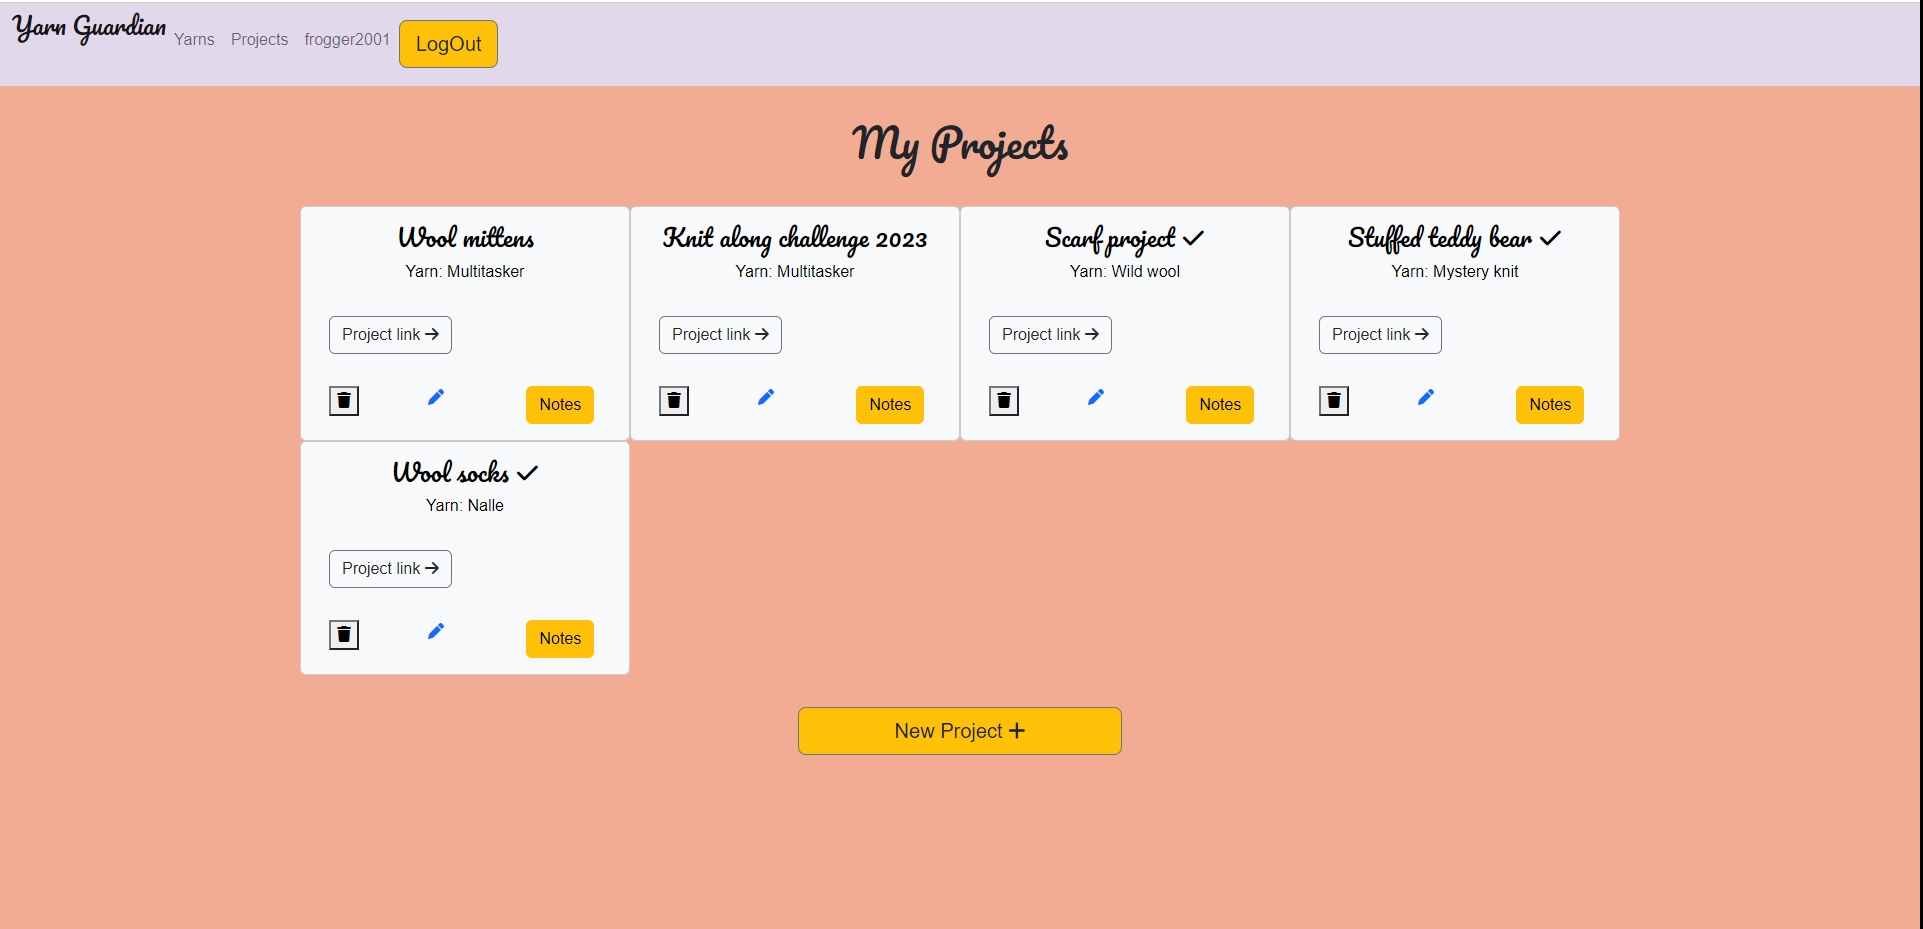
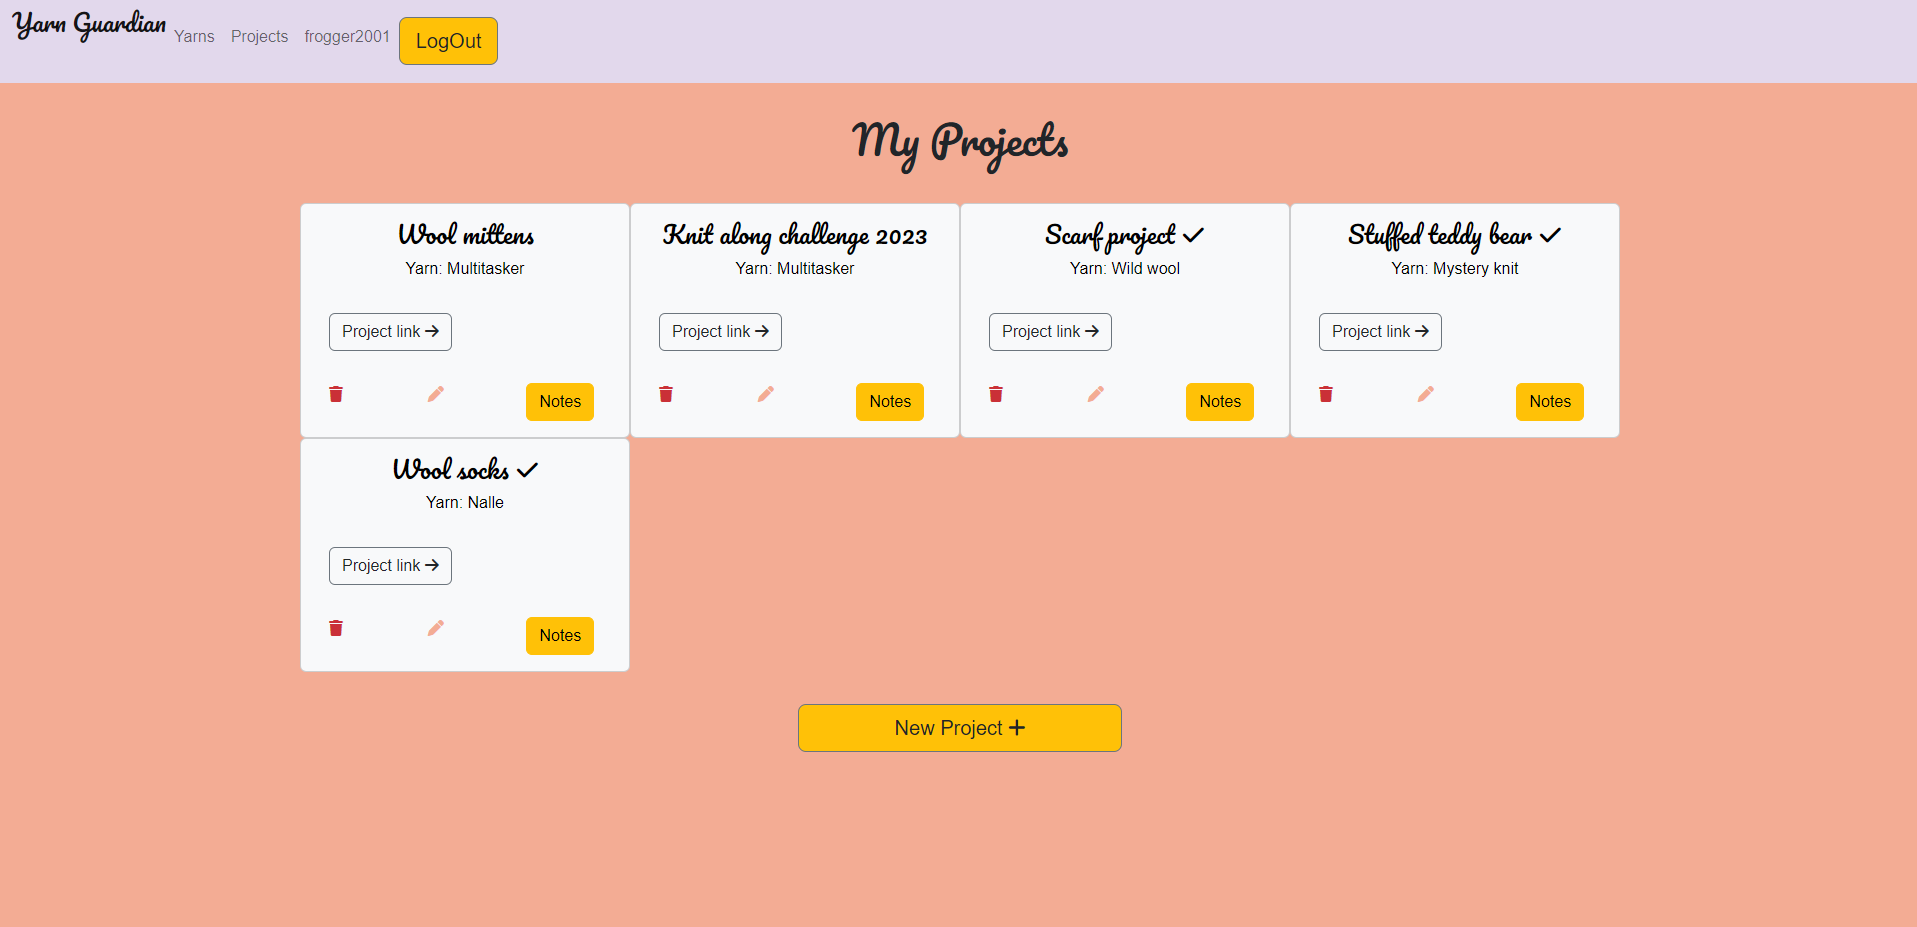
Fix final buttons

diff --git a/templates/stash/projects_board.html b/templates/stash/projects_board.html
@@ -41,21 +41,22 @@
                         <div class="row">
                             <div class="col-12 extra-fluff">
                                 <p class="card-text">
-                                    <button class="btn btn-light btn-outline-secondary">
-                                        <a class="text-decoration-none text-dark" href="{{ project.link }}" aria-label="Open page linked to your project" target="_blank">Project link <i class="fa-solid fa-arrow-right"></i></a>
-                                    </button>
+                                    <a class="text-decoration-none text-dark btn btn-light btn-outline-secondary" href="{{ project.link }}" aria-label="Open page linked to your project" target="_blank">Project link 
+                                        <i class="fa-solid fa-arrow-right">
+                                        </i>
+                                    </a>
                                 </p>
                             </div>
                         </div>
                         <div class="row">
                             <div class="col">
                                 <a href="/delete_project/{{ project.id }}">
-                                    <button> <i class="fa-solid fa-trash"></i></button>
+                                    <i class="fa-solid fa-trash trash-red"></i>
                                 </a>
                             </div>
                             <div class="col">
                                 <a href="/edit_project/{{ project.id }}">
-                                    <i class="fa-solid fa-pen"></i>
+                                    <i class="fa-solid fa-pen note-red"></i>
                                 </a>
                             </div>
                         

diff --git a/templates/stash/stash_board.html b/templates/stash/stash_board.html
@@ -54,19 +54,15 @@
                             </div>
                         
                             <div class="row">
-                                <div class="col">
-                                    <button class="btn">
-                                        <a href="/delete_yarn/{{ yarn.id }}">
-                                            <i class="fa-solid fa-trash trash-red"></i>
-                                        </a>
-                                    </button>
+                                <div class="col btn">
+                                    <a href="/delete_yarn/{{ yarn.id }}">
+                                        <i class="fa-solid fa-trash trash-red"></i>
+                                    </a>
                                 </div>
                                 <div class="col">
-                                    <button class="btn ">
-                                        <a href="/edit_yarn/{{ yarn.id }}">
-                                            <i class="fa-solid fa-pen note-red"></i>
-                                        </a>
-                                    </button>
+                                    <a class="btn" href="/edit_yarn/{{ yarn.id }}">
+                                        <i class="fa-solid fa-pen note-red"></i>
+                                    </a>
                                 </div>
                         
 <!-- Button trigger modal -->

diff --git a/README.md b/README.md
@@ -56,6 +56,8 @@ pip3 install django-crispy-forms
 ### Site Structure
 ![](doc/readme-images/site-structure.png "")
 
+User page is on the site, but doesn't have anything on it. 
+
 
 ### Data Structure
 
@@ -161,11 +163,21 @@ Sign Up, Login, Log out
 
 
 ### Tablet
-Here you can see the main pages as viewed on tablet
+Here you can see the main pages as viewed on tablet.
+First how it looks like before user has logged in
 
 ![](doc/readme-images/readme-screenshot-tablet1.png "")
+
+Then the view after user has logged in.
+
 ![](doc/readme-images/readme-screenshot-tablet2.png "")
+
+Yarn stash with several yarns added.
+
 ![](doc/readme-images/readme-screenshot-tablet3.png "")
+
+Project page
+
 ![](doc/readme-images/readme-screenshot-tablet4.png "")
 
 ### Laptop
@@ -173,7 +185,14 @@ Here you can see how Yarns and Projects look like on wider screens
 
 ![](doc/readme-images/readme-screenshot-laptop1.png "")
 ![](doc/readme-images/readme-screenshot-laptop2.png "")
+
+The main page where user arrives after log in.
+
 ![](doc/readme-images/readme-screenshot-laptop3.png "")
+
+### And then the problem
+Even after a lot of trial and error I have not succeeded at getting the custom CSS to show after everything is deployed to Heroku. Because of this only Bootstrap is showing. I was thinking if I should remove all my custom css because of and replace it with inline styling, but decided not to. The code is there and it works in development, as the screenshots can show. One day I'll figure this puzzle out as well. This is purely visual problem and doesn't affect the logic.
+
 ## TESTING
 
 ### User Story epics:
@@ -224,6 +243,8 @@ User has two options on how to handle their their yarn stash when they run out o
 
 Similarly with Yarn page, User is couched to go to Project page once they log in to their account. They can get there by clicking **Projects** tag in the navigation as well. Clicking the button sends them to My Projects-page. If they don't have any projects then the page informs them of that and tells them to add first project by clicking a **New Project**-button. This sends them to **Add Project**-page. Here user can give their project a name and write notes about it. They can also add a link to a pattern page if they wish to do so, and they can choose yarn to be used in this project. If they check the project as *finished* then that project card gets a check mark by the project name at the project board and sends the project to the end of the list.
 
+BUG ALERT! User can add also yarns that other people have logged. This needs some further testing and figuring out on my part.
+
 #### [As a User I can edit a project so that I can keep it up to date](https://github.com/CozyPlantlady/yarn-guardian/issues/23)
 
 User can click the pen icon on a project card to go back to the form and change any information as they wish. This is highly recommended, since user might want to keep adding notes as they go.
@@ -262,6 +283,8 @@ Home page loads correctly.
 User Page loads correctly.
 
 Unfortunately I couldn't figure this one out and these views are not tested further. Removed unused test snippets.
+
+### Automated testing test_models.py
 
 
 
@@ -314,6 +337,9 @@ The only JavaScript code that was used in this project is a snip taken from Boot
 CSS code checked and passed.
 
 #### HTML -- W3C Markup Validation Service
+
+HTML code tested page by page manually, since website is behing user validation.
+Found a problem that I have been using buttons and links together, and fixed all of those. After that code was validated.
 
 
 
